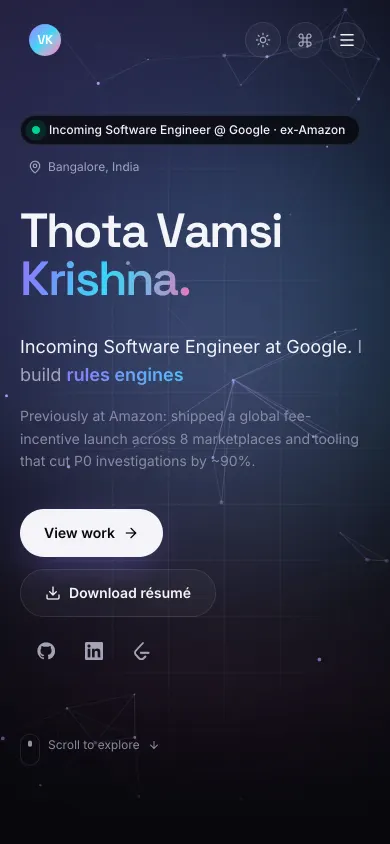
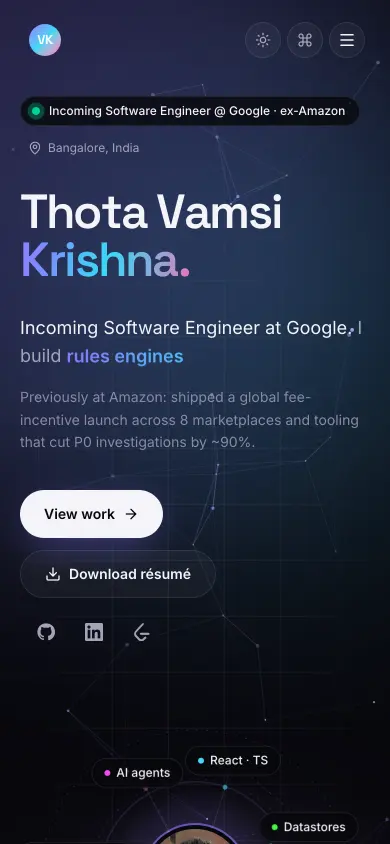
docs: refresh README features and screenshots for the new interactions

diff --git a/README.md b/README.md
@@ -15,27 +15,34 @@ Personal site of **Thota Vamsi Krishna**, incoming Software Engineer at Google (
 
 ## Features
 
-- **Interactive hero.** A canvas "constellation" field reacts to the cursor like a gravity well. The name animates in letter by letter, a rotating word cycles through what I build, the call-to-action buttons are magnetic, and a status pill shows *Incoming Software Engineer @ Google · ex-Amazon*.
-- **Command palette (⌘K / Ctrl+K).** Fuzzy search to jump to a section, open GitHub, LinkedIn, LeetCode or any project, copy the email address, toggle the theme, or download the résumé. It works fully from the keyboard.
-- **Terminal widget.** A small shell with `help`, `about`, `experience`, `projects`, `skills`, `education`, `contact`, `resume`, `goto <section>`, `theme` and `clear`. It keeps command history (↑/↓) and has Tab completion.
-- **Bento About section.** Photo and bio, next role, a live Bangalore clock, animated stat counters (8 marketplaces, ~90% faster investigations, 512 EC2 instances, 1000+ problems), education and achievements.
-- **Experience timeline.** The line fills as you scroll. Each role has tech chips and expandable highlights.
-- **Projects.** Filter chips (All / AI & Agents / Full-stack / Backend) with animated layout changes, 3D tilt and a cursor spotlight on the cards, and a detail modal with screenshot, description, stack, GitHub and live links, plus a click-to-load YouTube demo.
-- **Skills.** Two marquee rows plus grouped chip cards you can tap to highlight.
-- **Contact.** An EmailJS form with validation and status messages, a `mailto:` fallback and a copy-email button.
-- **Polish.** Light/dark theme (dark by default, saved in `localStorage`, no flash on load), a sticky glass navbar that highlights the active section, a scroll progress bar, and toasts.
+The site treats a backend engineer's career like a running system you can poke at.
 
-| Projects | Command palette | Terminal | Mobile |
+- **Hero "system map".** I sit at the centre as `vamsi.service`, with my stack (Java, Python, AWS, rules engines, data pipelines, AI agents, React/TS, datastores) orbiting as dependencies. Requests flow along the edges as glowing packets. You can hover or focus a node to see what it covers, or drag it and watch it spring back. Behind it, a cursor-reactive constellation canvas. The name animates in letter by letter, the role words rotate, the CTAs are magnetic, and a status pill reads *Incoming Software Engineer @ Google · ex-Amazon*.
+- **Career as a distributed trace.** Each role is a span on a 2023–2027 time axis. Google shows as a striped "incoming" span. Selecting a span opens its attributes, metrics (e.g. `marketplaces=8`, `ec2_instances=512`) and events. It's a keyboard-navigable tablist.
+- **Lab: incident replay.** A playable, fictional replay of the P0 investigator CLI. It walks five pipeline jobs, streams their outputs, isolates the failing job, types out an LLM root-cause summary and compares time to root cause (5–6 h by hand vs ~30 min).
+- **Fit finder.** A Drools-flavoured rules engine for recruiters. Toggle what the role needs and the matching rules "fire", each backed by real evidence from my work, then mail the match to me in one click.
+- **Skill field.** A hand-rolled force simulation: every skill is a bubble you can grab and fling. Bubbles collide, shy away from the cursor and re-cluster when you pick a group.
+- **Projects.** Live GitHub stats (public repos, language mix, latest pushes) from the public API. Filter chips (All / AI & Agents / Full-stack / Backend), tilt and spotlight cards, and a detail modal with screenshot, stack, links and a click-to-load YouTube demo.
+- **Command palette (⌘K / Ctrl+K).** Jump anywhere, run the incident replay, open links or projects, copy the email address, toggle the theme, or get the résumé.
+- **Terminal.** `help`, `about`, `experience`, `projects`, `skills`, `education`, `contact`, `resume`, `replay`, `fit`, `goto <section>`, `theme`, `clear`, with history and Tab completion.
+- **Bento About section** with photo, the next role, a live Bangalore clock and animated counters. **Contact** is an EmailJS form with a `mailto:` fallback and copy-email.
+- **Polish.** Light/dark theme, a glass navbar with active-section highlight, a desktop section rail, a scroll progress bar and toasts. There's also a hidden Konami-code easter egg (↑↑↓↓←→←→BA).
+
+| Career trace | Incident replay | Fit finder |
+| --- | --- | --- |
+| ![Career trace](docs/screenshots/career-trace.webp) | ![Incident replay](docs/screenshots/incident-replay.webp) | ![Fit finder](docs/screenshots/fit-finder.webp) |
+
+| Skill field | Projects | Command palette | Mobile |
 | --- | --- | --- | --- |
-| ![Projects](docs/screenshots/projects.webp) | ![Command palette](docs/screenshots/command-palette.webp) | ![Terminal](docs/screenshots/terminal.webp) | ![Mobile](docs/screenshots/mobile.webp) |
+| ![Skill field](docs/screenshots/skill-field.webp) | ![Projects](docs/screenshots/projects.webp) | ![Command palette](docs/screenshots/command-palette.webp) | ![Mobile](docs/screenshots/mobile.webp) |
 
 ## Quality
 
 - **Accessibility:** semantic landmarks, a skip link, visible focus rings, native `<dialog>` modals (focus containment, Esc to close, focus returned to the opener), an ARIA combobox/listbox for the palette, `aria-pressed` filters and `aria-expanded` disclosures, and alt text on every image.
-- **Reduced motion:** with `prefers-reduced-motion` the canvas draws one static frame, the marquee and rotating words stop, and reveal and tilt effects are turned off.
-- **Performance:** the canvas, command palette, terminal, project modal, EmailJS SDK and Framer Motion feature bundle are all code-split and lazy-loaded. Images are WebP with `srcset` and lazy loading. Fonts are self-hosted with `@fontsource-variable`. The canvas pauses when it is off-screen or the tab is hidden.
+- **Reduced motion:** with `prefers-reduced-motion` the canvases draw a static frame, the system map stops orbiting, the skill field settles once and stops, the rotating words stop, and reveal, tilt and confetti effects are turned off.
+- **Performance:** the canvas, command palette, terminal, incident replay, skill field, project modal, EmailJS SDK and Framer Motion feature bundle are all code-split and lazy-loaded. Images are WebP with `srcset` and lazy loading. Fonts are self-hosted with `@fontsource-variable`. The canvas pauses when it is off-screen or the tab is hidden.
 - **SEO:** title, meta description, canonical URL, Open Graph and Twitter card (`public/og-image.png`), JSON-LD `Person` data, favicon set, web manifest, `robots.txt` and `sitemap.xml`.
-- **Lighthouse** (local production preview): Desktop scores 100 for Performance, Accessibility, Best Practices and SEO. Mobile (simulated slow 4G) scores ~93 for Performance and 100 for the other three.
+- **Lighthouse** (local production preview): Desktop scores 100 for Performance, Accessibility, Best Practices and SEO. Mobile (simulated slow 4G) scores ~91 for Performance and 100 for the other three.
 
 ## Tech stack
 
@@ -52,8 +59,8 @@ Personal site of **Thota Vamsi Krishna**, incoming Software Engineer at Google (
 src/
   data/profile.ts        # all content: bio, experience, projects, skills, links
   config/site.ts         # EmailJS public IDs (overridable with VITE_* env vars)
-  sections/              # Hero, About, Experience, Projects, Skills, TerminalSection, Contact
-  components/            # Navbar, CommandPalette, Terminal, HeroCanvas, Dialog, ProjectModal, …
+  sections/              # Hero, About, Experience (trace), Lab, Projects, Skills, FitFinder, TerminalSection, Contact
+  components/            # SystemMap, IncidentReplay, SkillField, GitHubPulse, CommandPalette, Terminal, …
   hooks/                 # active section, media queries, pointer spotlight/tilt
   lib/                   # app context (theme, palette, toasts), helpers
 public/
